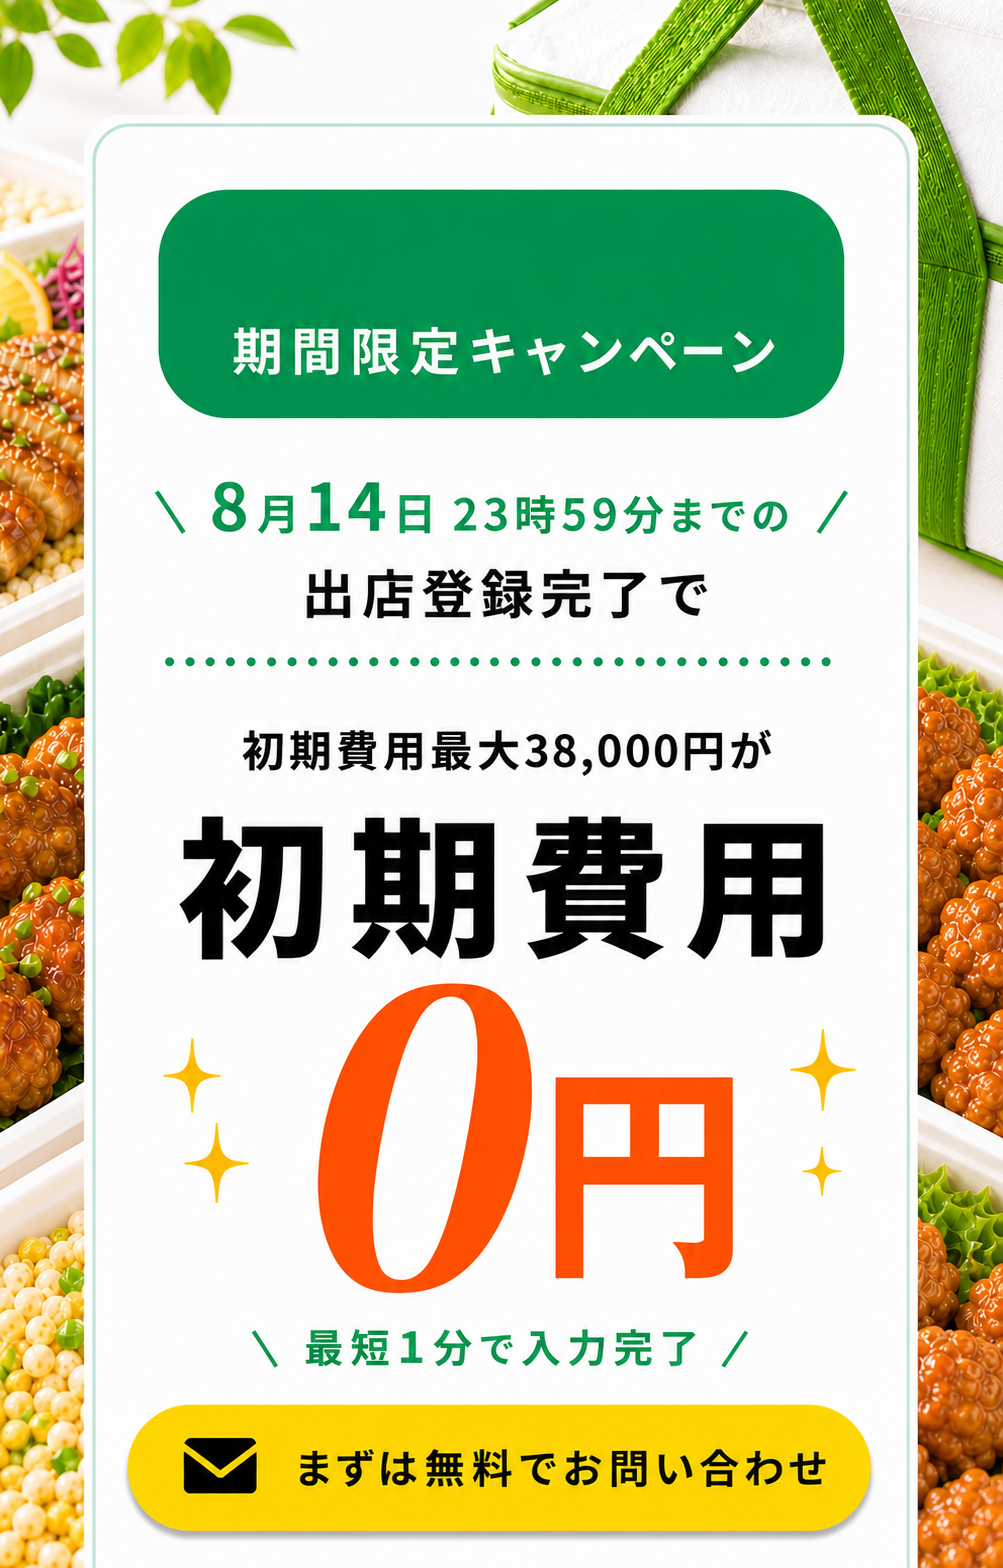
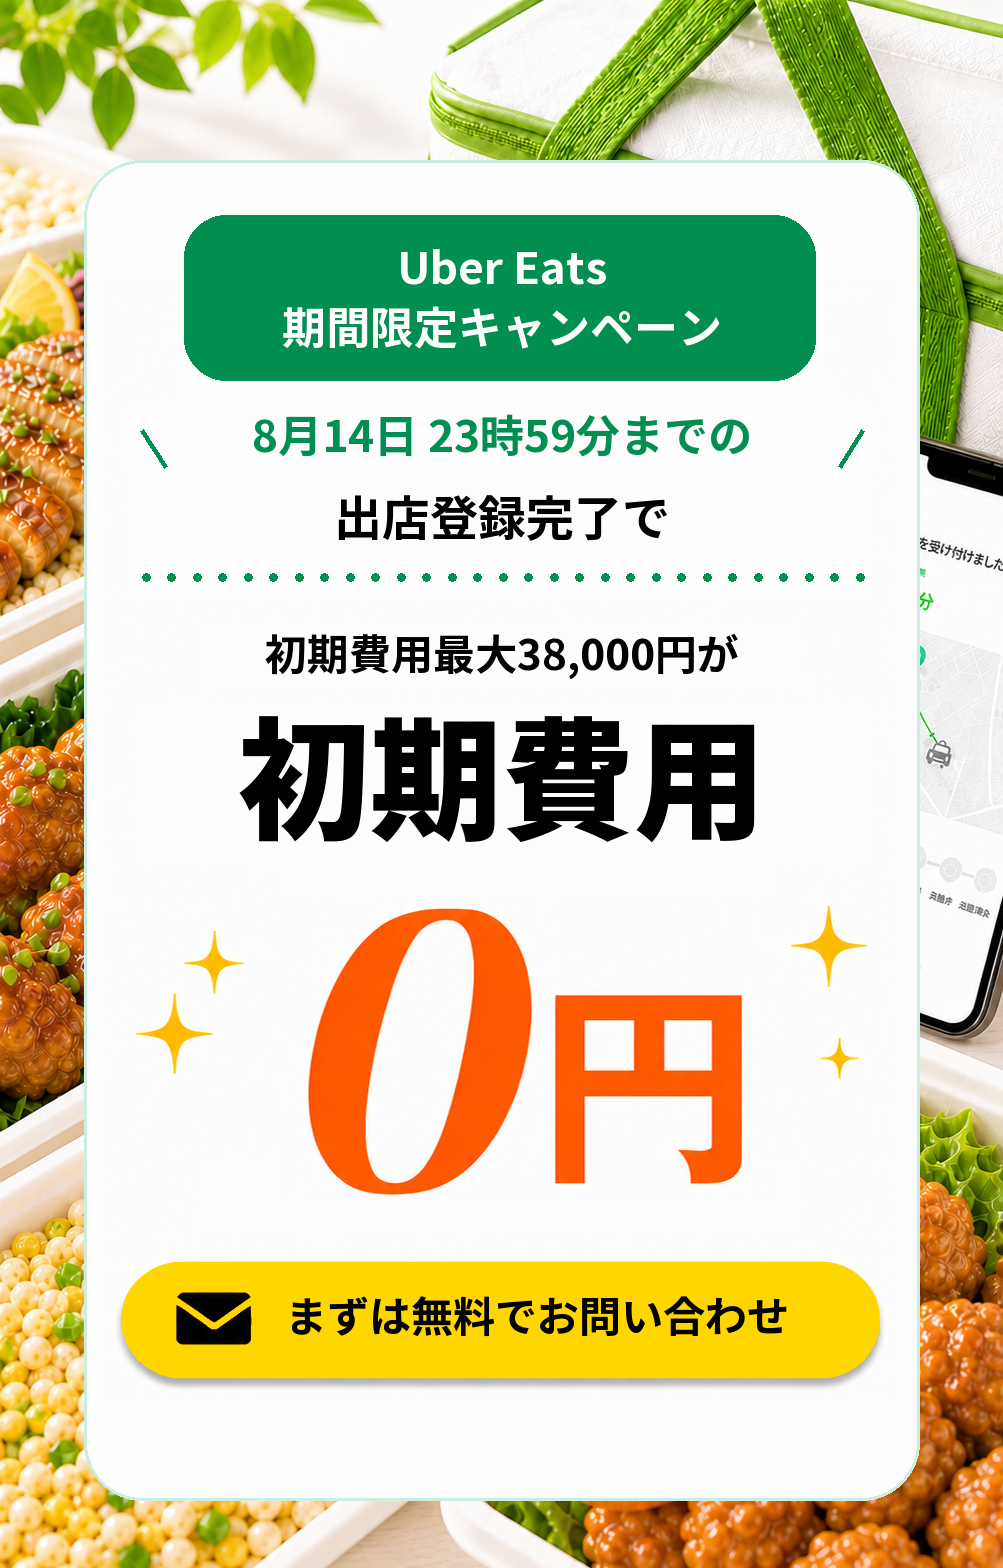
Hide HTML popup caption on mobile, keep PC-only
The new mobile popup image has "Uber Eats" baked into the artwork
itself, so the separate HTML caption overlay is now redundant there.
Restrict it to min-width:900px (PC) where the image still lacks the
text.

diff --git a/08.banner/lp-test-0814/index.html b/08.banner/lp-test-0814/index.html
@@ -1027,12 +1027,17 @@ a{text-decoration:none;color:inherit}
 .cp-overlay.cp-open{opacity:1;visibility:visible}
 .cp-box{width:100%;max-width:360px;max-height:90vh;position:relative;transform:translateY(20px);transition:transform .3s}
 .cp-overlay.cp-open .cp-box{transform:translateY(0)}
-.cp-caption{
-  position:absolute; top:10%; left:50%; transform:translateX(-50%);
-  color:#fff;
-  font-size:17px; font-weight:700;
-  text-shadow:0 1px 4px rgba(0,0,0,.5);
-  z-index:1; white-space:nowrap; letter-spacing:.01em;
+.cp-caption{display:none}
+@media(min-width:900px){
+  /* モバイル画像には既にUber Eats表記が入っているため、PCのみテキストで補う */
+  .cp-caption{
+    display:block;
+    position:absolute; top:10%; left:50%; transform:translateX(-50%);
+    color:#fff;
+    font-size:17px; font-weight:700;
+    text-shadow:0 1px 4px rgba(0,0,0,.5);
+    z-index:1; white-space:nowrap; letter-spacing:.01em;
+  }
 }
 .cp-box-inner{position:relative}
 .cp-box img{width:100%;height:auto;max-height:90vh;object-fit:contain;display:block;border-radius:16px;box-shadow:0 12px 48px rgba(0,0,0,.3);cursor:pointer}
